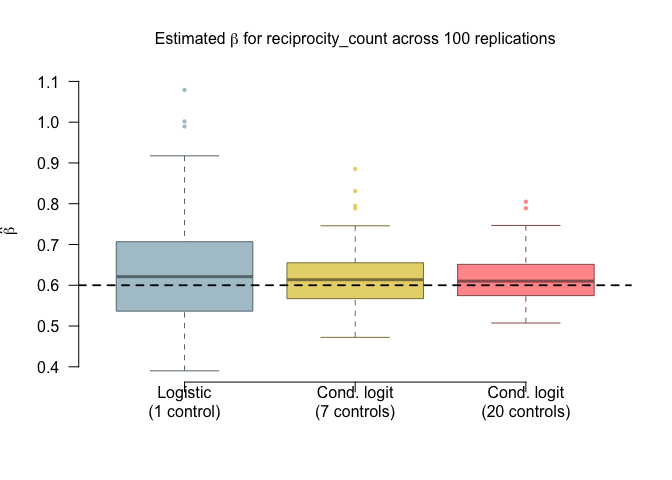
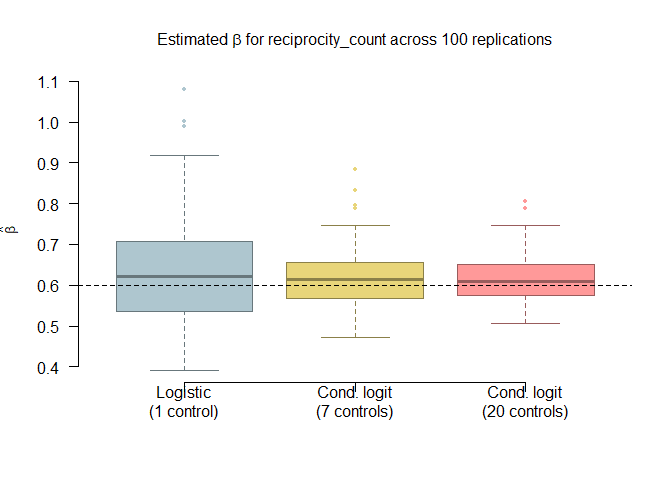
abstract of practical WS1 and package name update in practical 1

diff --git a/01-Introduction-to-REM/01-Simulating-REM-Data/Simulating-REM-Data.md b/01-Introduction-to-REM/01-Simulating-REM-Data/Simulating-REM-Data.md
@@ -1,26 +1,26 @@
 ## Introduction
 
 In the two practicals of the workshop *Introduction to Relational Event
-Models*, we will show how to use `amore` to simulate relational events
+Models*, we will show how to use `amorem` to simulate relational events
 and fit relational event models with increasing levels of complexity.
 
 If you are running this tutorial locally, make sure to uncomment the
 `remotes::install_github` command below to install the package.
 
 ``` r
-# remotes::install_github("franciscorichter/amore")
-library(amore)
+# remotes::install_github("franciscorichter/amorem")
+library(amorem)
 ```
 
 While exploring the main functions of the package, we will cover how:
 
--   to simulate relational event data in `amore` \[Theoretical
+-   to simulate relational event data in `amorem` \[Theoretical
     reference\]
 -   to structure data for inference \[Theoretical reference\]
 -   to fit models with linear effects \[Theoretical reference\]
--   different inference techniques compare \[Theoretical reference\]
+-   compare different inference techniques \[Theoretical reference\]
 
-## 1. How to simulate relational event data in `amore`
+## 1. How to simulate relational event data in `amorem`
 
 As seen in \[Theoretical reference\], *relational event data* consists
 of a sequence of $n$ triplets:
@@ -46,7 +46,7 @@ be decomposed into three main blocks:
     tutorial for circumstances in which this is not the case.
 
 2.  *Baseline hazard*: a time-varying function expressing the *global
-    determinants* of the event rate. In its current state, `amore`
+    determinants* of the event rate. In its current state, `amorem`
     supports a **time-invariant** baseline function, which can be
     specified via the `baseline_rate` argument using a positive scalar.
 
@@ -201,7 +201,7 @@ head(wide_data_m1)
 ## 3. How to fit models with linear effects
 
 Once the data has been structured, we are ready to fit the model. We do
-that by using the `rem` function in `amore`. The desired inference
+that by using the `rem` function in `amorem`. The desired inference
 method can be selected via the `method` argument.
 
 ### 3.1. Sampled partial likelihood via Conditional logistic regression

diff --git a/01-Introduction-to-REM/index.md b/01-Introduction-to-REM/index.md
@@ -8,9 +8,9 @@ render_with_liquid: false
 
 - [Practical 1: Simulating Relational Events](01-Simulating-REM-Data/)
 
-**Abstract:**
+This tutorial introduces Relational Event Models (REMs) through simulation and inference using the `amorem` R package. Starting from the core representation of relational event data as a sequence of sender-receiver-time triplets, we show how to simulate event sequences governed by endogenous network statistics — specifically reciprocity — under a model with a fixed linear effect. We then walk through two inference frameworks: sampled partial likelihood estimation via conditional logistic regression, and case-1-control partial likelihood via degenerate logistic regression, explaining the data structures each requires. A simulation study with 100 replications compares these approaches across varying numbers of sampled non-events (1, 7, and 20 controls per event), illustrating the bias-variance tradeoff: reducing the control set increases estimation variance while preserving consistency.
 
 
 - [Practical 2: Application to Alien Species Invasions](02-Alien-Species-Invasions/)
 
-**Abstract:**
+This tutorial demonstrates the application REMs beyond linear effect specifications, using data on the first recorded invasions of insect species into world regions between 1880 and 2005. Framing alien species invasions as relational events — where species act as senders and regions as receivers — we show how to prepare ecological data for REM inference using the `amorem` R package, including risk set construction that accounts for native ranges and the non-recurrent nature of first records. Three endogenous, time-dependent covariates are derived by combining event history with exogenous data sources: climatic dissimilarity (minimum temperature difference between a target region and previously invaded regions), international trade flows, and geographic distance. Using case-1-control sampling and the degenerate logistic regression framework, we fit and interpret four model specifications — linear, time-varying, nonlinear, and random-intercept effects — illustrating how each captures a distinct aspect of invasion dynamics. 
